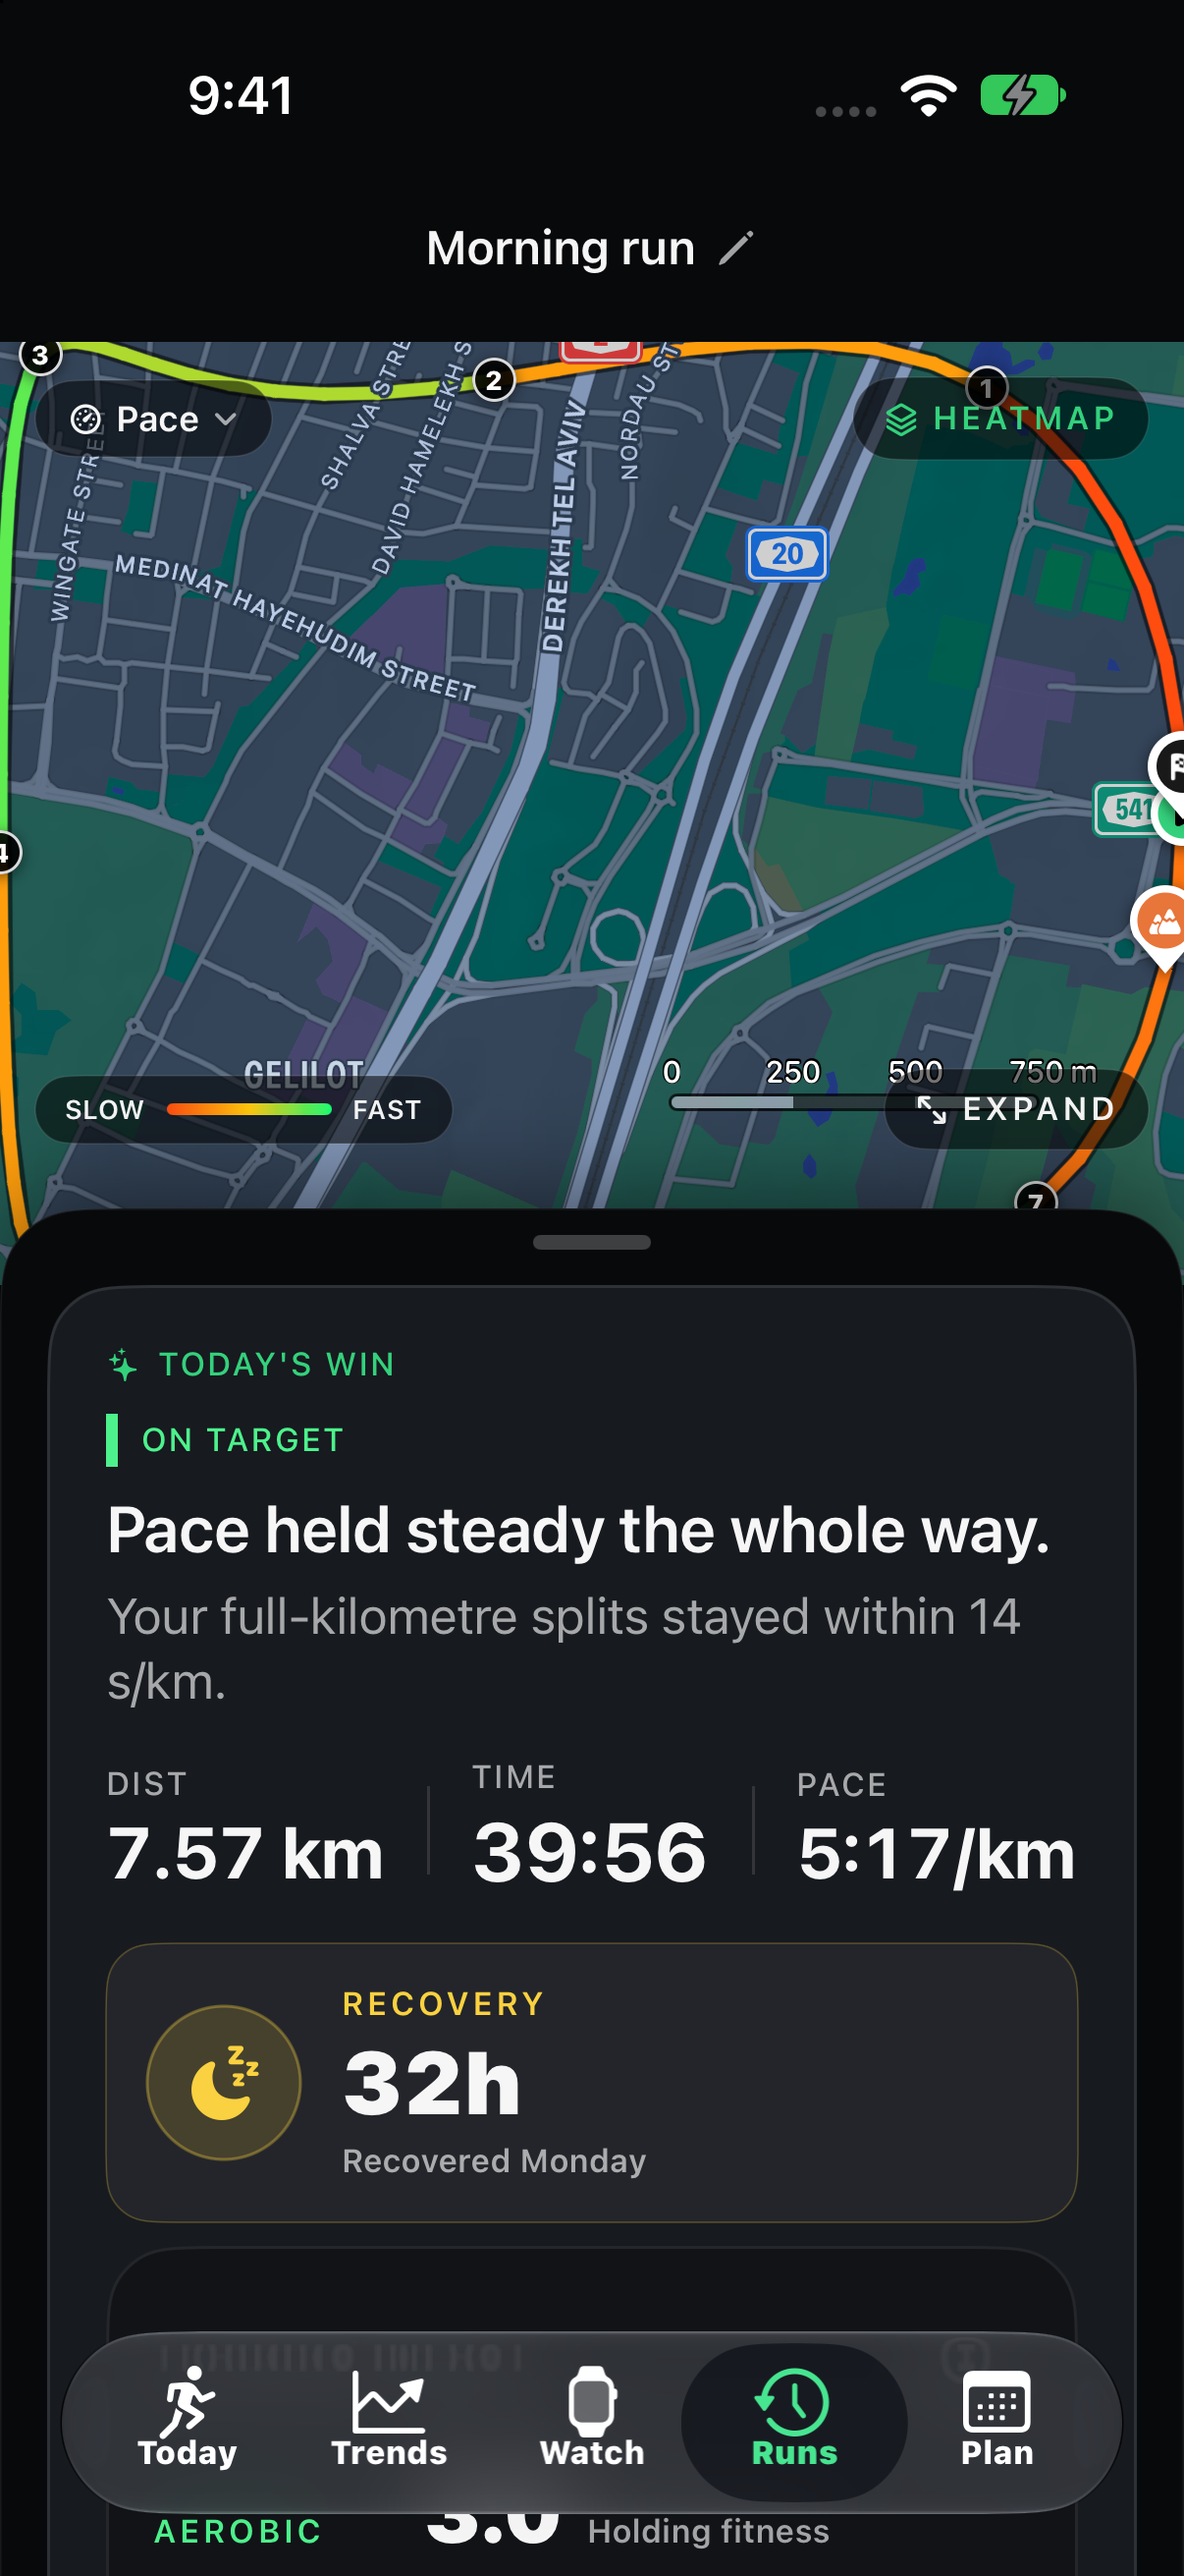
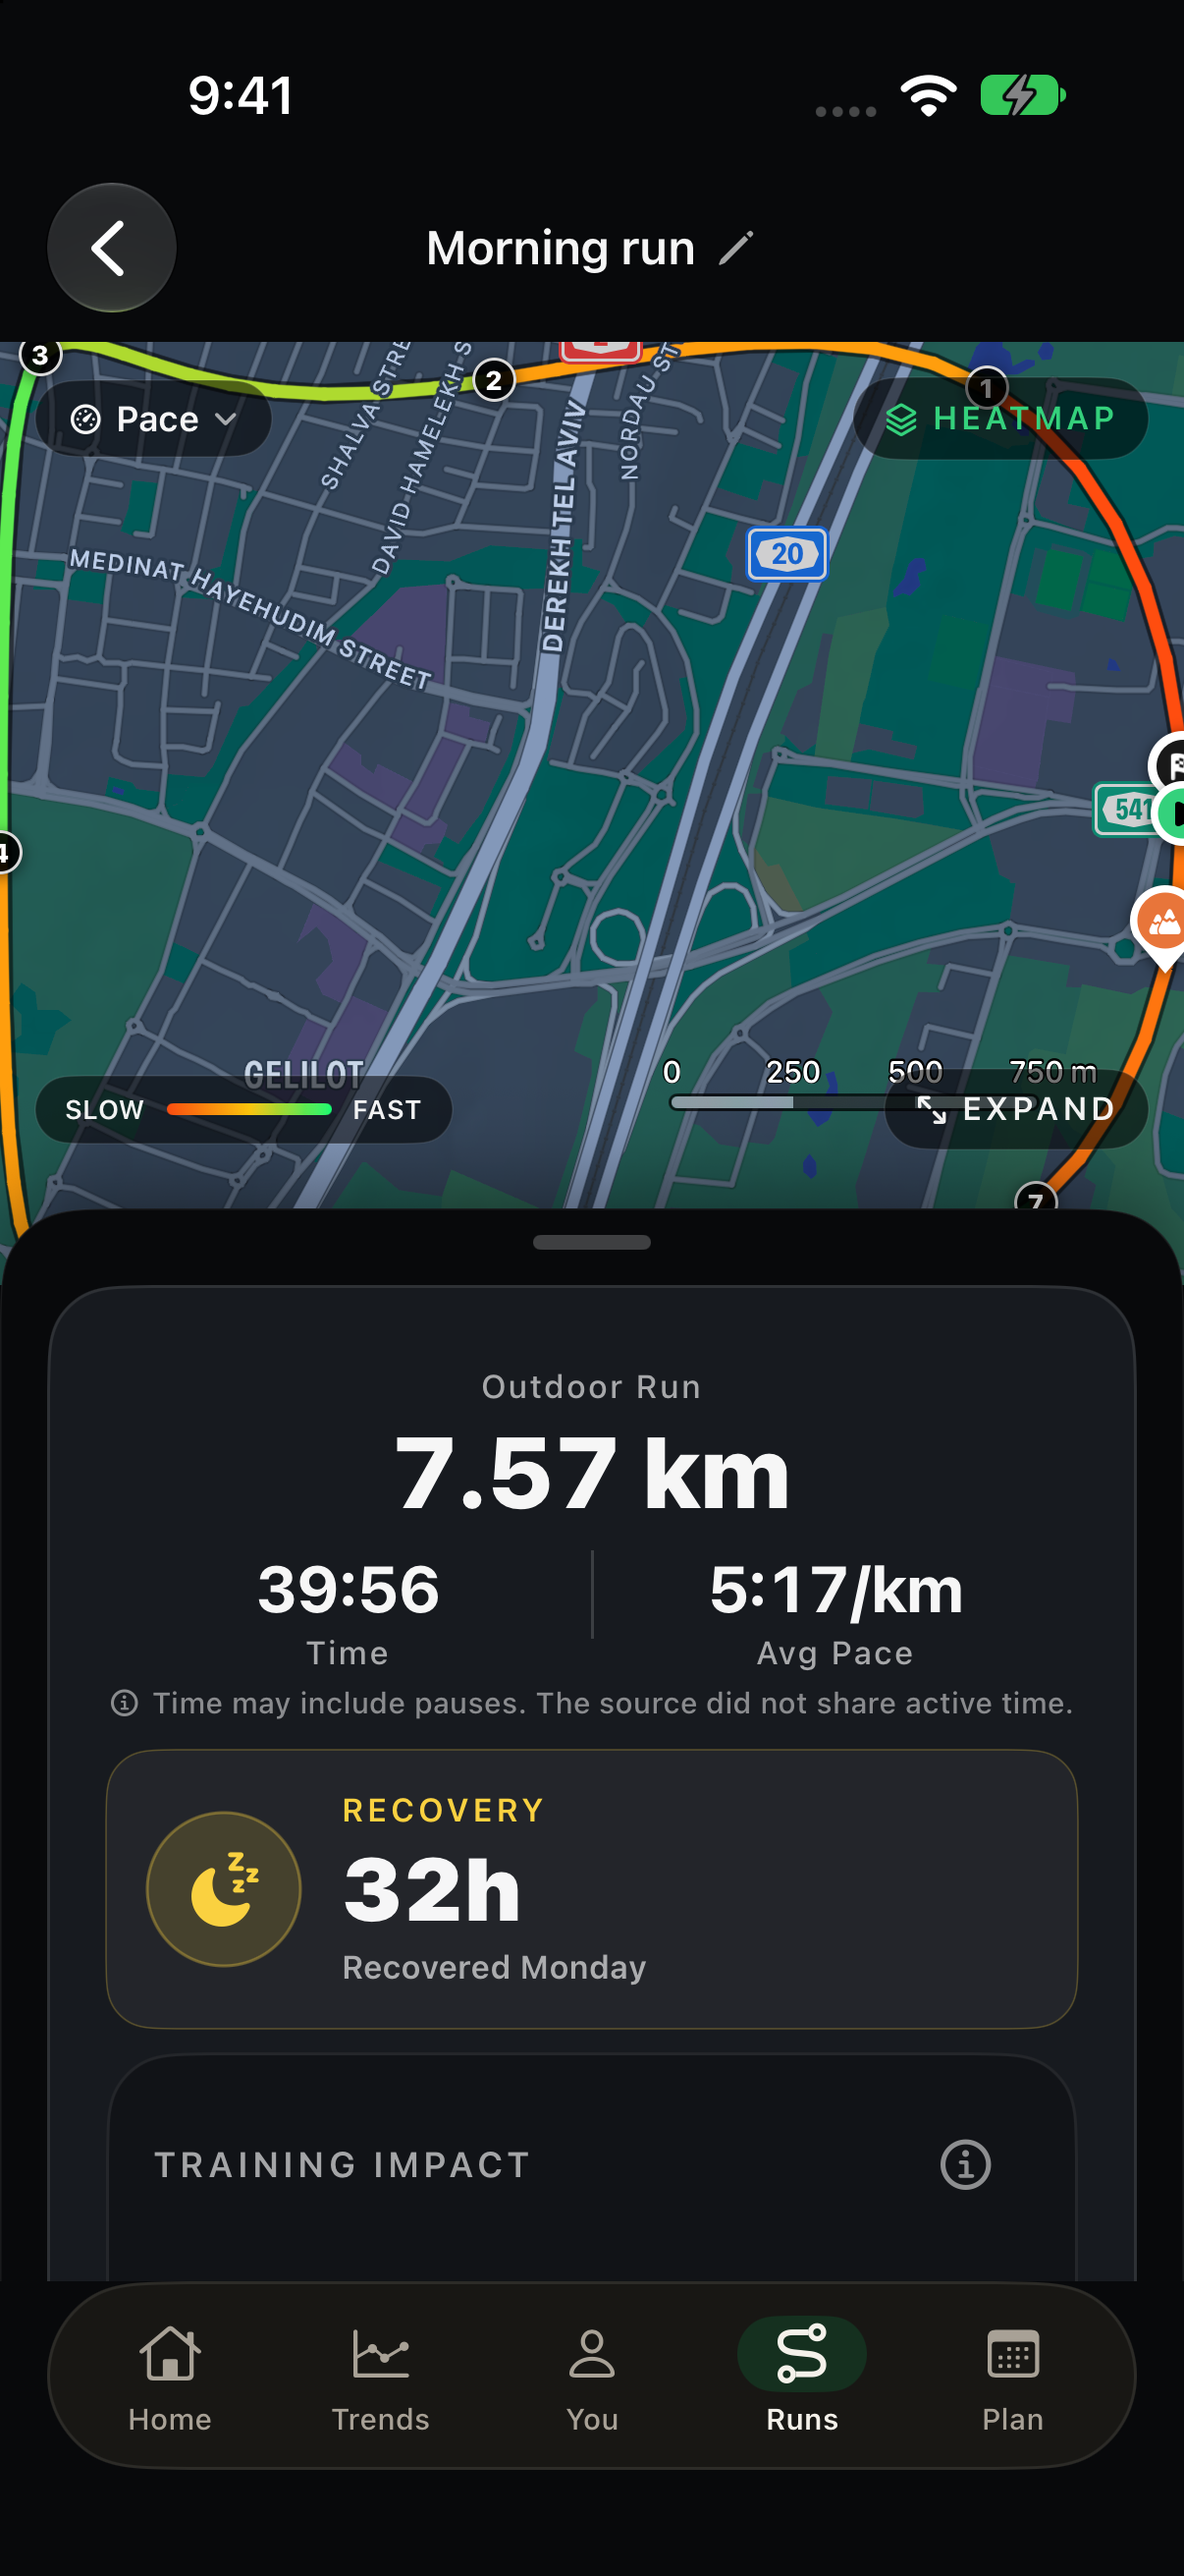
Complete current Home and plan demo captures

diff --git a/app/(en)/page.tsx b/app/(en)/page.tsx
@@ -73,7 +73,8 @@ const journey = [
 ];
 
 const phoneShots = [
-  { src: "demo-dashboard.png", tag: "Your trends", title: "See the bigger picture.", desc: "Review readiness, training load and recent running in one place." },
+  { src: "demo-home.png", tag: "Home", title: "Your day at a glance.", desc: "See your latest run and the information available for today." },
+  { src: "demo-plan.png", tag: "Your plan", title: "Know what comes next.", desc: "See your training week and how it fits into your plan." },
   { src: "demo-run.png", tag: "Your run", title: "Understand the effort.", desc: "Explore your route, pace and a concise summary after your run." },
 ];
 
@@ -125,7 +126,7 @@ export default function RunToMaxLanding() {
 
         <motion.div initial={{ opacity: 0, y: 28 }} animate={{ opacity: 1, y: 0 }} transition={{ duration: 0.75, delay: 0.15 }} className="relative z-10 mx-auto flex w-full max-w-lg items-end justify-center gap-3 sm:gap-5">
           <div className="w-[65%] max-w-[310px] overflow-hidden rounded-[2.5rem] border-[7px] border-zinc-700 bg-black shadow-[0_30px_100px_-35px_rgba(31,226,108,.4)]">
-            <img src={`${BASE}/demo-dashboard.png`} alt="RunToMax dashboard showing example readiness and training trends" className="h-auto w-full" />
+            <img src={`${BASE}/demo-home.png`} alt="RunToMax Home showing an example run and readiness information" className="h-auto w-full" />
           </div>
           <div className="mb-8 w-[31%] max-w-[155px] overflow-hidden rounded-[2rem] border-[6px] border-zinc-700 bg-black shadow-2xl">
             <img src={`${BASE}/demo-watch.png`} alt="RunToMax running screen on Apple Watch with example distance and time" className="h-auto w-full" />
@@ -198,7 +199,7 @@ export default function RunToMaxLanding() {
           <p className="mx-auto mt-6 max-w-2xl text-lg leading-relaxed text-zinc-400">See your training at a glance, then explore the details of each run. Screens show example data.</p>
         </div>
 
-        <div className="relative mt-16 flex snap-x snap-mandatory gap-7 overflow-x-auto pb-8 lg:grid lg:mx-auto lg:max-w-3xl lg:grid-cols-2 lg:overflow-visible lg:pb-0">
+        <div className="relative mt-16 flex snap-x snap-mandatory gap-7 overflow-x-auto pb-8 lg:grid lg:grid-cols-3 lg:overflow-visible lg:pb-0">
           {phoneShots.map((shot, index) => (
             <motion.article
               key={shot.src}
